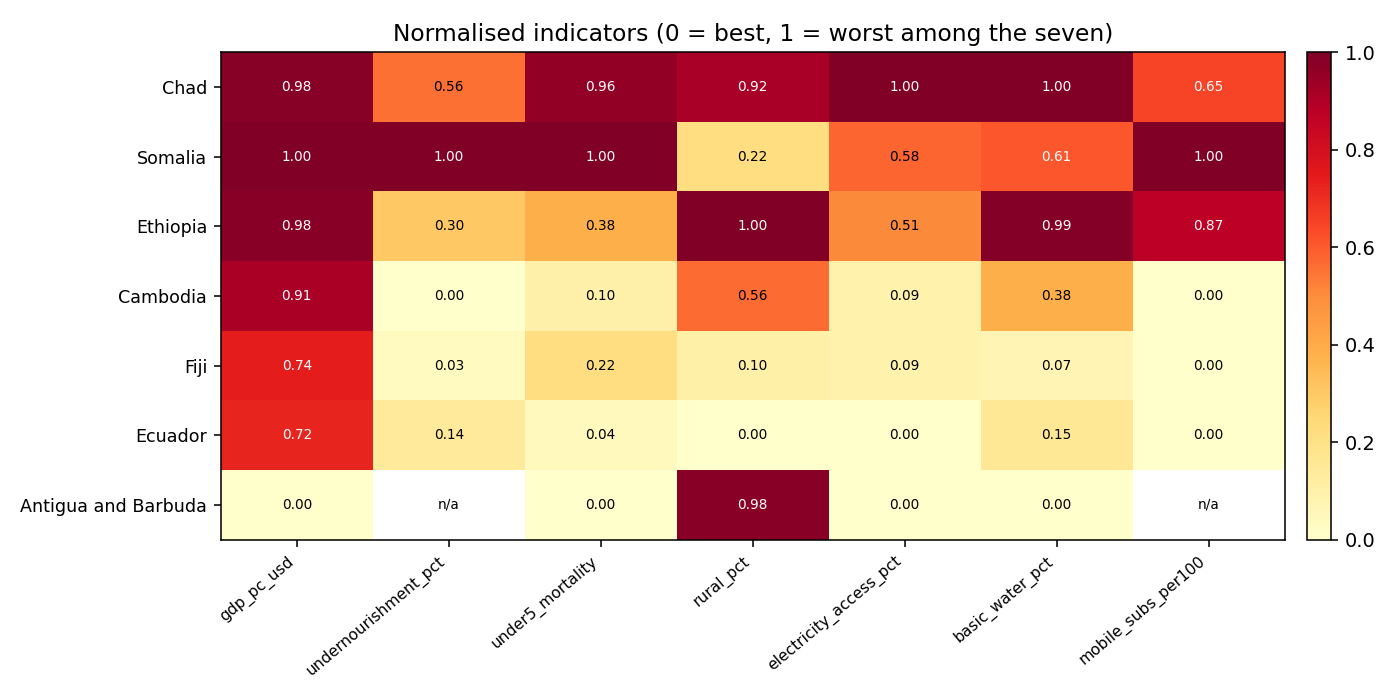
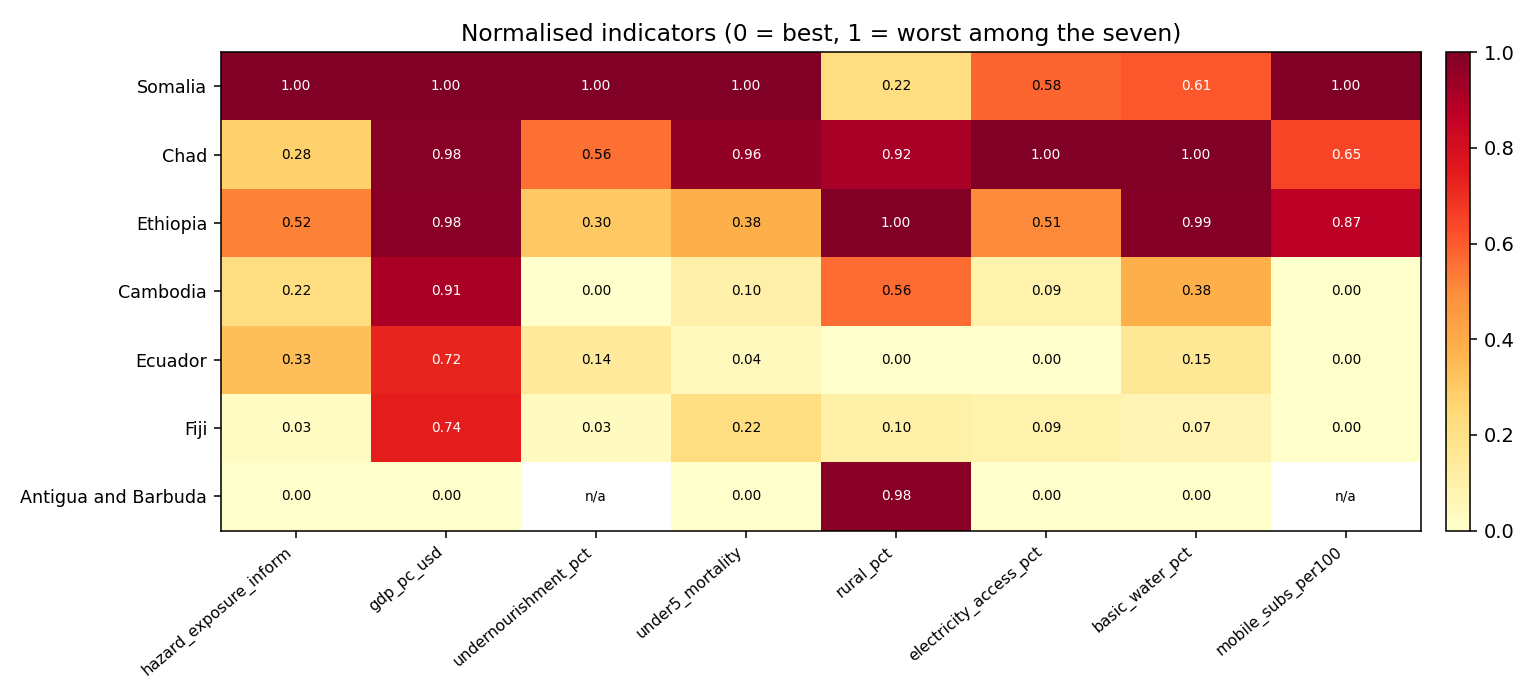
Add real INFORM hazard dimension; fix index aggregation; validate vs INFORM (rho=0.99)

diff --git a/src/build_index.py b/src/build_index.py
@@ -1,32 +1,32 @@
 """
-EW4All Vulnerability & Readiness Index
-======================================
+EW4All Multi-Hazard Risk & Readiness Index
+==========================================
 
-Builds a transparent, INFORM-style composite index for the seven Green Climate Fund
-Early-Warnings-for-All (EW4All) pilot countries, from **real World Bank Open Data**
-(see ../data/sources.md). It answers a concrete question for programme prioritisation:
+A transparent, INFORM-style composite index for the seven Green Climate Fund
+Early-Warnings-for-All (EW4All) pilot countries, built entirely from **real, open data**:
 
-    Where are people most vulnerable to climate hazards AND least served by the basic
-    systems an early-warning chain relies on (power, water, mobile reach)?
+  * Hazard & Exposure   -> JRC INFORM Risk 2023 "Hazard & Exposure" component (0-10)
+  * Vulnerability       -> World Bank Open Data (GDP/capita, undernourishment,
+                           under-5 mortality, rural share)
+  * Readiness gap       -> World Bank Open Data (electricity, basic water,
+                           mobile reach) -- proxies for the systems an early-warning
+                           chain depends on
+
+See ../data/sources.md for every indicator code, year and URL.
 
 Method
 ------
-Two INFORM dimensions, built only from openly-available authoritative data:
-
-  VULNERABILITY   : GDP per capita (inverted), undernourishment, under-5 mortality,
-                    rural population share (harder-to-reach).
-  READINESS GAP   : access to electricity (inverted), basic drinking water (inverted),
-                    mobile subscriptions / 100 (inverted; capped at 100 = saturated reach).
-
-Steps:
   1. Set each indicator's polarity so HIGHER = WORSE.
-  2. Min-max normalise each indicator to 0-1 ACROSS the seven countries (relative index).
+  2. Min-max normalise each indicator to 0-1 ACROSS the seven countries (a relative,
+     prioritisation index).
   3. Dimension score = mean of available (non-missing) indicators.
-  4. Composite = geometric mean(vulnerability, readiness_gap) x 100  -> 0-100.
-  5. Rank; the highest scores are the priority countries.
+  4. Composite = **arithmetic mean of the three dimension scores x 100** (0-100).
+     (An arithmetic mean is used rather than a geometric mean so that a country which is
+     best-in-class on one dimension is not forced to an artificial 0 overall.)
+  5. Rank. The independent INFORM overall risk score is carried through as an external
+     cross-check (not part of the composite).
 
-Outputs (written to ../results/):
-  vulnerability_readiness_index.csv, index_ranking.png, indicator_heatmap.png
+Outputs (../results/): index.csv, index_ranking.png, indicator_heatmap.png
 """
 
 from __future__ import annotations
@@ -42,17 +42,22 @@ DATA = ROOT / "data" / "worldbank_indicators.csv"
 RESULTS = ROOT / "results"
 RESULTS.mkdir(exist_ok=True)
 
-# indicator -> ("direct" means higher=worse already, "invert" means higher=better -> flip)
-VULNERABILITY = {
-    "gdp_pc_usd": "invert",
-    "undernourishment_pct": "direct",
-    "under5_mortality": "direct",
-    "rural_pct": "direct",
-}
-READINESS = {
-    "electricity_access_pct": "invert",
-    "basic_water_pct": "invert",
-    "mobile_subs_per100": "invert",
+# dimension -> {column: polarity}. "direct" = higher already worse; "invert" = flip.
+DIMENSIONS = {
+    "hazard": {
+        "hazard_exposure_inform": "direct",
+    },
+    "vulnerability": {
+        "gdp_pc_usd": "invert",
+        "undernourishment_pct": "direct",
+        "under5_mortality": "direct",
+        "rural_pct": "direct",
+    },
+    "readiness_gap": {
+        "electricity_access_pct": "invert",
+        "basic_water_pct": "invert",
+        "mobile_subs_per100": "invert",
+    },
 }
 MOBILE_CAP = 100.0
 
@@ -71,26 +76,30 @@ def normalise(col: pd.Series, polarity: str) -> pd.Series:
 
 def dimension_score(df: pd.DataFrame, spec: dict) -> pd.Series:
     parts = [normalise(df[c], pol) for c, pol in spec.items()]
-    return pd.concat(parts, axis=1).mean(axis=1, skipna=True)  # mean of available indicators
+    return pd.concat(parts, axis=1).mean(axis=1, skipna=True)
 
 
 def main() -> None:
     df = pd.read_csv(DATA)
 
-    vuln = dimension_score(df, VULNERABILITY)
-    ready_gap = dimension_score(df, READINESS)
-    composite = np.sqrt(vuln.clip(1e-9) * ready_gap.clip(1e-9)) * 100.0
+    dim_scores = {name: dimension_score(df, spec) for name, spec in DIMENSIONS.items()}
+    composite = pd.concat(dim_scores.values(), axis=1).mean(axis=1) * 100.0
 
     out = df[["iso3", "country", "population"]].copy()
-    out["vulnerability_0_1"] = vuln.round(3)
-    out["readiness_gap_0_1"] = ready_gap.round(3)
+    for name, s in dim_scores.items():
+        out[name] = s.round(3)
     out["INDEX_0_100"] = composite.round(1)
+    out["inform_overall_ref"] = df["inform_risk_overall"]
     out = out.sort_values("INDEX_0_100", ascending=False).reset_index(drop=True)
     out["priority_rank"] = np.arange(1, len(out) + 1)
-    out.to_csv(RESULTS / "vulnerability_readiness_index.csv", index=False)
+    out.to_csv(RESULTS / "index.csv", index=False)
 
-    print("EW4All Vulnerability & Readiness Index (real World Bank data):\n")
+    # rank-agreement with the independent INFORM overall score (Spearman = Pearson on ranks)
+    rho = out["INDEX_0_100"].rank().corr(out["inform_overall_ref"].rank())
+
+    print("EW4All Multi-Hazard Risk & Readiness Index (real data)\n")
     print(out.to_string(index=False))
+    print(f"\nRank correlation with INFORM overall risk (independent check): Spearman rho = {rho:.2f}")
 
     # ---- ranking chart ----
     fig, ax = plt.subplots(figsize=(9, 5))
@@ -98,19 +107,20 @@ def main() -> None:
     ax.barh(out["country"][::-1], out["INDEX_0_100"][::-1], color=colors)
     for i, v in enumerate(out["INDEX_0_100"][::-1]):
         ax.text(v + 0.6, i, f"{v:.1f}", va="center", fontsize=8)
-    ax.set_xlabel("Vulnerability & Readiness Index (0–100, higher = higher priority)")
-    ax.set_title("EW4All pilot countries — early-warning prioritisation\n(real World Bank data, accessed 2026-07-06)")
+    ax.set_xlabel("Multi-Hazard Risk & Readiness Index (0–100, higher = higher priority)")
+    ax.set_title("EW4All pilot countries — early-warning prioritisation\n"
+                 "INFORM Risk 2023 + World Bank Open Data (accessed 2026-07-06)")
     ax.set_xlim(0, 100)
     ax.grid(axis="x", alpha=0.3)
     fig.tight_layout()
     fig.savefig(RESULTS / "index_ranking.png", dpi=140)
 
-    # ---- indicator heatmap (normalised, higher = worse) ----
-    all_spec = {**VULNERABILITY, **READINESS}
+    # ---- indicator heatmap ----
+    all_spec = {c: p for spec in DIMENSIONS.values() for c, p in spec.items()}
     norm = pd.DataFrame({c: normalise(df[c], p) for c, p in all_spec.items()})
     norm.index = df["country"]
-    norm = norm.loc[out["country"]]  # order by rank
-    fig2, ax2 = plt.subplots(figsize=(10, 5))
+    norm = norm.loc[out["country"]]
+    fig2, ax2 = plt.subplots(figsize=(11, 5))
     im = ax2.imshow(norm.values, cmap="YlOrRd", aspect="auto", vmin=0, vmax=1)
     ax2.set_xticks(range(len(all_spec)))
     ax2.set_xticklabels(list(all_spec), rotation=40, ha="right", fontsize=8)

diff --git a/src/fetch_data.py b/src/fetch_data.py
@@ -16,6 +16,8 @@ import pandas as pd
 
 DATA = Path(__file__).resolve().parent.parent / "data"
 BASE = "https://api.worldbank.org/v2"
+INFORM = "https://drmkc.jrc.ec.europa.eu/Inform-Index/API/InformAPI"
+INFORM_WORKFLOW = 464  # latest INFORM Risk release published via the API (INFORM Risk 2023)
 
 COUNTRIES = {  # ISO2 used by the API -> ISO3 label we store
     "AG": "ATG", "KH": "KHM", "TD": "TCD", "EC": "ECU",
@@ -65,6 +67,13 @@ def latest_values(code: str, year: str, rng: str) -> dict:
     return out
 
 
+def inform_scores(indicator: str) -> dict:
+    """{iso3: score} for an INFORM component (e.g. 'HA', 'INFORM') from the JRC INFORM API."""
+    url = f"{INFORM}/countries/Scores/?WorkflowId={INFORM_WORKFLOW}&IndicatorId={indicator}"
+    payload = _get(url)
+    return {r["Iso3"]: r["IndicatorScore"] for r in payload if r.get("Iso3") in NAMES}
+
+
 def main() -> None:
     frame = {"iso3": list(NAMES), "country": [NAMES[i] for i in NAMES]}
     cols = {}
@@ -72,6 +81,14 @@ def main() -> None:
         vals = latest_values(code, year, rng)
         cols[col] = [vals.get(i) for i in NAMES]
         print(f"{code:16s} -> {col:22s} {sum(v is not None for v in cols[col])}/7 countries")
+
+    # INFORM Risk (JRC) — real hazard & exposure + overall risk for cross-check
+    ha = inform_scores("HA")
+    inform = inform_scores("INFORM")
+    cols["hazard_exposure_inform"] = [ha.get(i) for i in NAMES]
+    cols["inform_risk_overall"] = [inform.get(i) for i in NAMES]
+    print(f"INFORM HA        -> hazard_exposure_inform {sum(v is not None for v in cols['hazard_exposure_inform'])}/7 countries")
+
     df = pd.DataFrame({**frame, **cols})
     DATA.mkdir(exist_ok=True)
     df.to_csv(DATA / "worldbank_indicators.csv", index=False)

diff --git a/README.md b/README.md
@@ -1,4 +1,4 @@
-# EW4All Vulnerability & Readiness Index
+# EW4All Multi-Hazard Risk & Readiness Index
 
 [![Open In Colab](https://colab.research.google.com/assets/colab-badge.svg)](https://colab.research.google.com/github/Pr0spektor/climate-risk-early-warning/blob/main/notebook.ipynb)
 
@@ -8,60 +8,65 @@ Ecuador, Ethiopia, Fiji and Somalia.
 
 It answers a concrete prioritisation question:
 
-> **Where are people most vulnerable to climate hazards *and* least served by the basic systems
-> an early-warning chain depends on (power, water, mobile reach)?**
+> **Where do high hazard & exposure, high human vulnerability, and weak basic systems
+> (power, water, mobile reach) coincide — so an early-warning programme should act first?**
 
-All inputs are **official World Bank Open Data**, fetched live from `api.worldbank.org`
-(accessed 2026-07-06; World Bank "last updated" 2026-07-01). No synthetic data. See
-[`data/sources.md`](data/sources.md) for every indicator code, year and definition.
+Every input is **official open data**, fetched live:
+
+- **Hazard & Exposure** — [JRC INFORM Risk 2023](https://drmkc.jrc.ec.europa.eu/inform-index)
+  (Hazard & Exposure component, 0–10).
+- **Vulnerability & Readiness** — [World Bank Open Data](https://data.worldbank.org/)
+  (GDP/capita, undernourishment, under-5 mortality, rural share; electricity, water, mobile reach).
+
+Accessed 2026-07-06. Full indicator codes, years and URLs in [`data/sources.md`](data/sources.md).
 
 ## Result
 
 ![Index ranking](results/index_ranking.png)
 
-| Rank | Country | Index (0–100) | Vulnerability | Readiness gap |
-|---|---|---|---|---|
-| 1 | Chad | 86.8 | 0.86 | 0.88 |
-| 2 | Somalia | 76.6 | 0.80 | 0.73 |
-| 3 | Ethiopia | 72.4 | 0.67 | 0.79 |
-| 4 | Cambodia | 24.9 | 0.39 | 0.16 |
-| 5 | Fiji | 12.2 | 0.27 | 0.05 |
-| 6 | Ecuador | 10.8 | 0.23 | 0.05 |
-| 7 | Antigua and Barbuda | 0.0 | 0.33 | 0.00 |
+| Rank | Country | Index (0–100) | Hazard | Vulnerability | Readiness gap | INFORM (ref) |
+|---|---|---|---|---|---|---|
+| 1 | Somalia | 84.4 | 1.00 | 0.80 | 0.73 | 8.9 |
+| 2 | Chad | 67.1 | 0.28 | 0.86 | 0.88 | 6.5 |
+| 3 | Ethiopia | 65.9 | 0.52 | 0.67 | 0.79 | 6.5 |
+| 4 | Cambodia | 25.6 | 0.22 | 0.39 | 0.16 | 4.7 |
+| 5 | Ecuador | 20.4 | 0.33 | 0.23 | 0.05 | 4.1 |
+| 6 | Fiji | 11.9 | 0.03 | 0.27 | 0.05 | 2.9 |
+| 7 | Antigua and Barbuda | 10.9 | 0.00 | 0.33 | 0.00 | 2.5 |
+
+**Independent validation:** the ranking matches the JRC INFORM *overall* risk score — which is
+**not** used in the composite — at a Spearman rank correlation of **ρ ≈ 0.99**. The two were
+built from different inputs, so the agreement is a genuine cross-check, not circular.
 
 ![Indicator heatmap](results/indicator_heatmap.png)
 
-The ranking aligns with independent assessments (Sahel / Horn of Africa show the highest
-combined vulnerability and lowest service coverage), which is a sanity check on the method — but
-the numbers here are computed only from the cited open data.
-
 ## Method
 
-Two INFORM-style dimensions, each built only from openly-available authoritative data:
+Three INFORM-style dimensions, each from real open data:
 
-- **Vulnerability** — GDP per capita (inverted), undernourishment, under-5 mortality, rural
-  population share (harder-to-reach).
+- **Hazard & Exposure** — INFORM Risk 2023 Hazard & Exposure component.
+- **Vulnerability** — GDP/capita (inverted), undernourishment, under-5 mortality, rural share
+  (harder-to-reach populations).
 - **Readiness gap** — access to electricity (inverted), basic drinking water (inverted), mobile
-  subscriptions per 100 (inverted; capped at 100 = saturated reach — a proxy for how far a mobile
+  subscriptions per 100 (inverted, capped at 100 = saturated reach — a proxy for how far a mobile
   warning can travel, EW4All Pillar 3).
 
 Steps: set each indicator's polarity so higher = worse → min-max normalise 0–1 across the seven
-countries → average available indicators per dimension → composite =
-`geometric_mean(vulnerability, readiness_gap) × 100` → rank. Missing values (Antigua's
-undernourishment and mobile figures) are left blank and simply excluded from that country's
-dimension average — never imputed.
+countries → average the available indicators per dimension → composite =
+**arithmetic mean of the three dimensions × 100** → rank. An arithmetic mean is used (rather than
+a geometric mean) so a country that is best-in-class on one dimension is not forced to an
+artificial 0. Missing values (Antigua's undernourishment and mobile figures) are left blank and
+excluded from that country's dimension average — never imputed.
 
 Index values are **relative across these seven countries** (a prioritisation tool), not absolute
-global risk scores. A physical hazard/exposure term is intentionally out of scope here; the code
-is structured so a hazard column (e.g. from the JRC INFORM Risk Index or EM-DAT) can be added
-directly.
+global scores.
 
 ## How this maps to EW4All
 
 | EW4All pillar | Lead agency | This repo |
 |---|---|---|
-| 1. Risk knowledge | UNDRR | vulnerability dimension + country ranking |
-| 2. Detection / monitoring | WMO | (out of scope — hazard term is pluggable) |
+| 1. Risk knowledge | UNDRR | hazard + vulnerability dimensions & country ranking |
+| 2. Detection / monitoring | WMO | hazard dimension (INFORM) |
 | 3. Warning dissemination | ITU | mobile-reach indicator in the readiness gap |
 | 4. Preparedness & response | IFRC | readiness gap → where basic systems are weakest |
 
@@ -69,7 +74,7 @@ directly.
 
 ```bash
 pip install -r requirements.txt
-python src/fetch_data.py      # re-fetch the latest real data from the World Bank API
+python src/fetch_data.py      # re-fetch the latest real data from the World Bank + INFORM APIs
 python src/build_index.py     # compute the index + write results/ charts and CSV
 ```
 
@@ -83,10 +88,10 @@ climate-risk-early-warning/
 │   ├── worldbank_indicators.csv   # real values (committed snapshot, accessed 2026-07-06)
 │   └── sources.md                 # indicator codes, years, definitions, limitations
 ├── src/
-│   ├── fetch_data.py              # live fetch from api.worldbank.org (reproduces the CSV)
-│   └── build_index.py             # computes index + charts
+│   ├── fetch_data.py              # live fetch from World Bank + JRC INFORM APIs
+│   └── build_index.py             # computes index + charts + validation
 ├── results/
-│   ├── vulnerability_readiness_index.csv
+│   ├── index.csv
 │   ├── index_ranking.png
 │   └── indicator_heatmap.png
 ├── notebook.ipynb
@@ -96,5 +101,5 @@ climate-risk-early-warning/
 
 ## Data & licence
 
-Data © World Bank, [Open Data](https://data.worldbank.org/) (CC BY 4.0). Code released under the
-MIT Licence.
+World Bank data © World Bank ([CC BY 4.0](https://data.worldbank.org/)). INFORM Risk © European
+Commission Joint Research Centre / INFORM. Code released under the MIT Licence.

diff --git a/data/sources.md b/data/sources.md
@@ -1,11 +1,18 @@
 # Data sources & provenance
 
-All values are **real, official data from the World Bank Open Data API** (`api.worldbank.org`),
-for the seven Green Climate Fund *Early Warnings for All* (EW4All) pilot countries.
+All values are **real, official open data**, for the seven Green Climate Fund *Early Warnings for
+All* (EW4All) pilot countries, from two authoritative sources:
+
+- **World Bank Open Data API** (`api.worldbank.org`) — socioeconomic & service indicators.
+- **JRC INFORM Risk 2023** (`drmkc.jrc.ec.europa.eu/Inform-Index`, API WorkflowId 464) — the
+  Hazard & Exposure component and the overall INFORM risk score.
 
 - **Accessed:** 2026-07-06
-- **API "last updated" stamp returned by World Bank:** 2026-07-01
-- **Reproduce:** run `python src/fetch_data.py` to regenerate `worldbank_indicators.csv` live.
+- **World Bank "last updated" stamp:** 2026-07-01
+- **INFORM release:** INFORM Risk 2023 (latest edition exposed through the public API at access
+  time; 2024/2025 workflows exist but are not yet published via the API).
+- **Reproduce:** run `python src/fetch_data.py` to regenerate `worldbank_indicators.csv` live
+  from both APIs.
 
 Each indicator uses the most recent year with data available for these countries at access time:
 
@@ -19,6 +26,8 @@ Each indicator uses the most recent year with data available for these countries
 | `electricity_access_pct` | Access to electricity (% pop.) | EG.ELC.ACCS.ZS | 2022 | readiness (inverted) |
 | `basic_water_pct` | At least basic drinking water (% pop.) | SH.H2O.BASW.ZS | 2022 | readiness (inverted) |
 | `mobile_subs_per100` | Mobile cellular subscriptions (per 100) | IT.CEL.SETS.P2 | 2023 | readiness / warning reach (inverted) |
+| `hazard_exposure_inform` | INFORM Hazard & Exposure component (0–10) | INFORM `HA` (WF 464) | 2023 | hazard |
+| `inform_risk_overall` | INFORM overall risk score (0–10) | INFORM `INFORM` (WF 464) | 2023 | external cross-check |
 
 ### Missing values (reported honestly, not imputed)
 - **Antigua and Barbuda** — `undernourishment_pct` and `mobile_subs_per100` are not reported by
@@ -26,12 +35,12 @@ Each indicator uses the most recent year with data available for these countries
   indicators within each dimension for that country (see `src/build_index.py`).
 
 ### Notes / limitations
-- This uses the **vulnerability** and **coping-capacity/readiness** dimensions of the
-  INFORM-style risk logic, for which authoritative country data is openly available. It does
-  **not** include a physical **hazard/exposure** term — for that, combine with the JRC
-  [INFORM Risk Index](https://drmkc.jrc.ec.europa.eu/inform-index) or
-  [EM-DAT](https://www.emdat.be/). The code is structured so a hazard column can be added directly.
+- The composite combines three real dimensions: **Hazard & Exposure** (INFORM), **Vulnerability**
+  and **Readiness gap** (World Bank). The INFORM overall score is kept separate as an independent
+  cross-check on the ranking (Spearman ρ ≈ 0.99).
 - Mobile subscriptions are capped at 100/100 before normalisation (values above 100 reflect
   multiple SIMs per person, not additional population reach).
 - Index values are **relative across these seven countries**, for prioritisation — not absolute
   global risk scores.
+- INFORM hazard data is the 2023 edition (latest via API); World Bank values are 2022–2024 as
+  noted per indicator. Re-running `fetch_data.py` will pick up newer data as it is published.